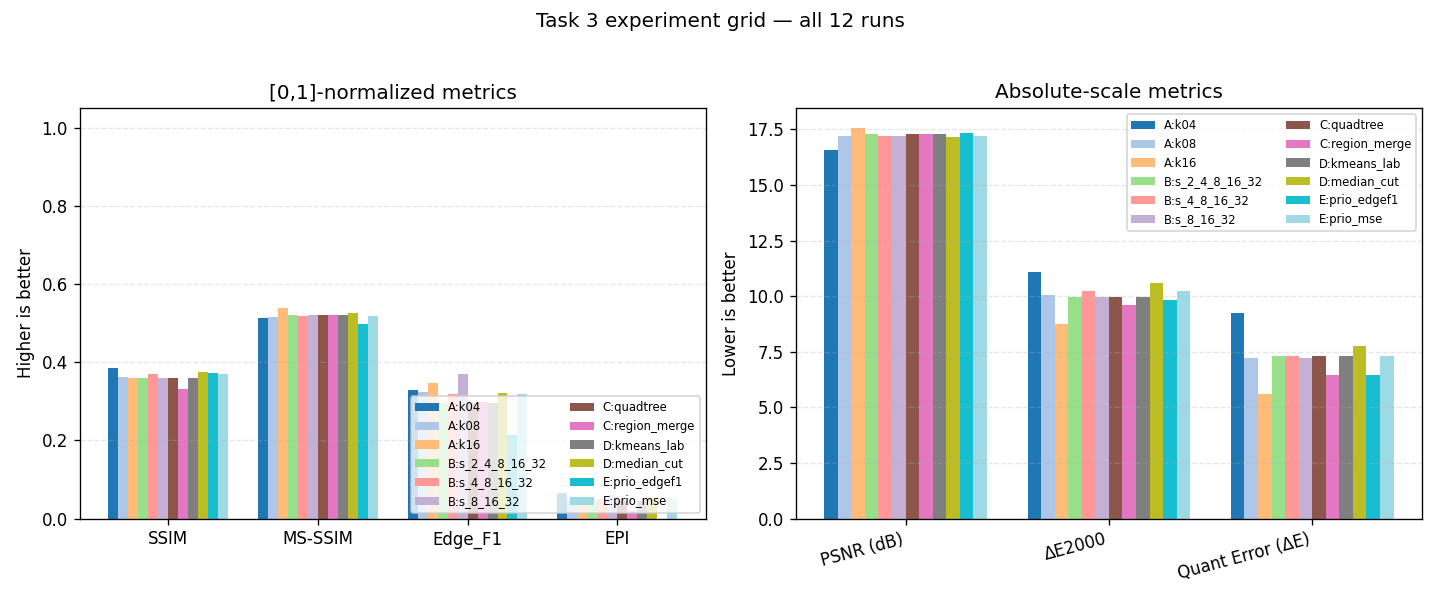
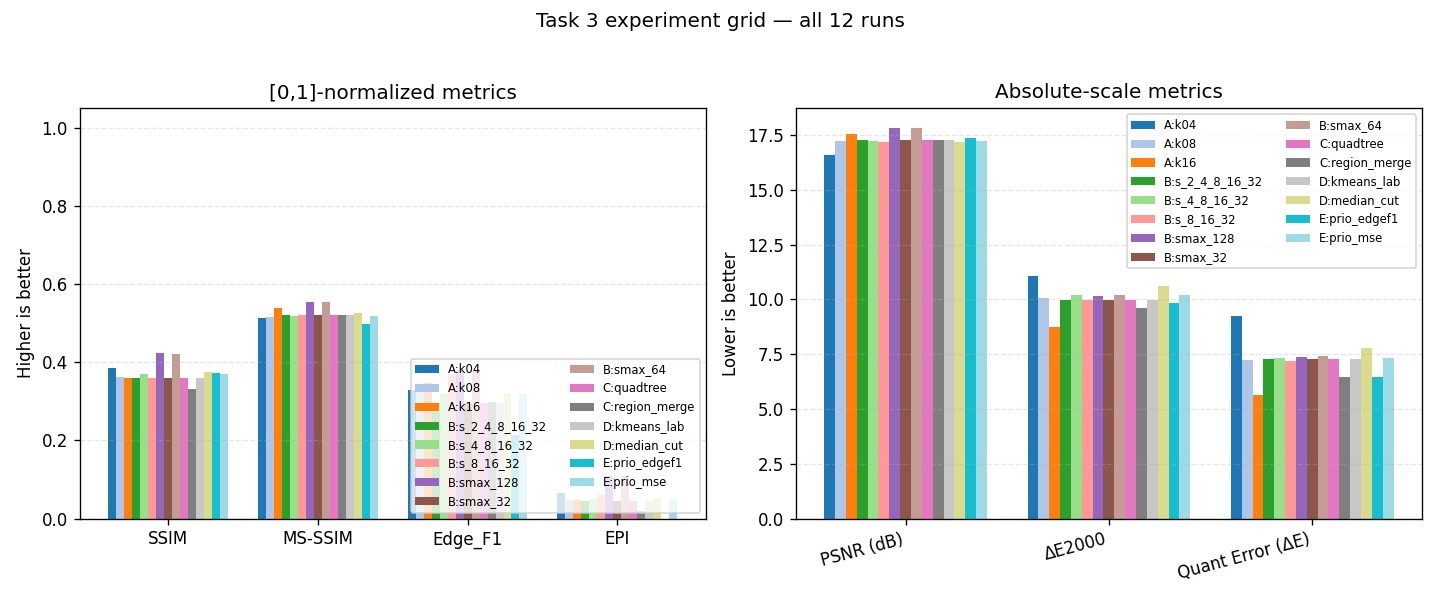
task3: add B2_smax group (S_max sweep 32/64/128); keep original B_sweep as record

diff --git a/code/triangle_brick_task3.py b/code/triangle_brick_task3.py
@@ -16,12 +16,13 @@ Pipeline:
     8. Metrics (reuse Task 2's 9 metrics) + per-size histogram + palette swatch.
     9. JSON dump + PNG outputs.
 
-Five experiment groups (12 runs total):
-    A_ksweep      : K in {4, 8, 16}                      (3)
-    B_sweep       : S_set in {{1,2,4}, {1,2,4,8}, {1,2,4,8,16}} (3)
-    C_algorithm   : partition in {quadtree, region_merge}(2)
-    D_palette     : palette in {kmeans_lab, median_cut} (2)
-    E_priority    : priority in {mse, edgef1}            (2)
+Six experiment groups (15 runs total):
+    A_ksweep      : K in {4, 8, 16}                         (3)
+    B_sweep       : S_min in {2, 4, 8} (kept as record)     (3)
+    B2_smax       : S_max in {32, 64, 128} (improved B)     (3)
+    C_algorithm   : partition in {quadtree, region_merge}   (2)
+    D_palette     : palette in {kmeans_lab, median_cut}     (2)
+    E_priority    : priority in {mse, edgef1}               (2)
 """
 import argparse
 import csv
@@ -576,11 +577,27 @@ def build_experiment_grid(out_root):
         configs.append(c)
 
     # B. S-set sweep (subsets of powers-of-two that include S_max=32 so quadtree
-# finishes in microseconds; S_min=1 is impractical under the 10000 budget.)
+    # finishes in microseconds; S_min=1 is impractical under the 10000 budget.)
+    # NOTE: kept as-is for the record. The B-group "S_min" sweep turned out to
+    # be a near no-op (budget binds at size 4), which motivated B2 below.
     s_sets = [[2, 4, 8, 16, 32], [4, 8, 16, 32], [8, 16, 32]]
     for s_set in s_sets:
         tag = "_".join(str(s) for s in s_set)
         c = Task3Config(name=f"s_{tag}", group="B_sweep", S_set=s_set)
+        configs.append(c)
+
+    # B2. S_MAX sweep — the "improved B" group. The original B varied the
+    # smallest allowed cell (S_min), which had almost no effect because the
+    # budget is spent by the time cells reach size 4. B2 varies the LARGEST
+    # allowed cell instead: starting coarser leaves more budget headroom for
+    # deep splits, so finer cells actually appear (see the marginal-benefit
+    # analysis in docs/progress/Task3.md §5).
+    s_sets = [[1, 2, 4, 8, 16, 32],
+              [1, 2, 4, 8, 16, 32, 64],
+              [1, 2, 4, 8, 16, 32, 64, 128]]
+    for s_set in s_sets:
+        tag = s_set[-1]
+        c = Task3Config(name=f"smax_{tag}", group="B2_smax", S_set=s_set)
         configs.append(c)
 
     # C. Partition algorithm — use S_set=[4,8,16,32] so BOTH algorithms are
@@ -680,9 +697,14 @@ def main_func():
     parser.add_argument("--input", "-i", default=DEFAULT_INPUT)
     parser.add_argument("--out-root", "-o", default=DEFAULT_OUT_ROOT)
     parser.add_argument("--groups", nargs="+",
-                        choices=["A", "B", "C", "D", "E", "all"], default=["all"],
+                        choices=["A", "B", "B2", "C", "D", "E", "all"], default=["all"],
                         help="Which experiment groups to run (default: all).")
     args = parser.parse_args()
+
+    GROUP_KEYS = {
+        "A": "A_ksweep", "B": "B_sweep", "B2": "B2_smax",
+        "C": "C_algorithm", "D": "D_palette", "E": "E_priority",
+    }
 
     img = cv2.imread(args.input)
     if img is None:
@@ -691,7 +713,8 @@ def main_func():
 
     configs = build_experiment_grid(args.out_root)
     if "all" not in args.groups:
-        configs = [c for c in configs if c.group[0] in args.groups]
+        wanted = {GROUP_KEYS[g] for g in args.groups}
+        configs = [c for c in configs if c.group in wanted]
 
     all_metrics = []
     for cfg in configs:

diff --git a/docs/progress/Task3.md b/docs/progress/Task3.md
@@ -93,17 +93,25 @@ multiplied by `target_size` again). After the fix, region_merge reaches
 
 `S_set` must be a power-of-two family (the quadtree halves sizes on split).
 
-## 3. Experiment grid (all 12 runs completed)
+## 3. Experiment grid (15 runs)
 
-| Group | Swept variable | Values |
-|---|---|---|
-| **A_ksweep** | K | 4, 8, 16 |
-| **B_sweep** | S_set (S_min) | [2..32], [4..32], [8..32] |
-| **C_algorithm** | partition | quadtree, region_merge (S_set=[4,8,16,32]) |
-| **D_palette** | palette gen | K-Means-LAB, Median-Cut |
-| **E_priority** | split priority | ΔMSE, Sobel-var |
+| Group | Swept variable | Values | note |
+|---|---|---|---|
+| **A_ksweep** | K | 4, 8, 16 | |
+| **B_sweep** | S_set (S_min) | [2..32], [4..32], [8..32] | original B — near no-op, kept as record |
+| **B2_smax** | S_set (S_max) | [1..32], [1..64], [1..128] | "improved B" — added after the marginal-gain analysis |
+| **C_algorithm** | partition | quadtree, region_merge (S_set=[4,8,16,32]) | |
+| **D_palette** | palette gen | K-Means-LAB, Median-Cut | |
+| **E_priority** | split priority | ΔMSE, Sobel-var | |
 
-All 12 hit exactly **9990 triangles (99.9% budget)**.
+All 15 hit **≈9990 triangles (99.9% budget)**.
+
+**Why B and B2 both exist.** The original B varied the *smallest* allowed cell
+(S_min). Empirically that was a no-op: the budget is exhausted by the time
+cells reach size 4, so S_min ∈ {1,2,4} are indistinguishable. The follow-up
+(see §5 research log) showed that the *largest* allowed cell (S_max) is the
+lever that actually matters, so **B2** was added to vary S_max while the
+original B is retained for the record.
 
 ## 4. Results
 
@@ -117,6 +125,9 @@ Full table: `code/pics/task3/summary/metrics_table.csv`.
 | B:s_2_4_8_16_32 | 0.359 | 0.520 | 9.95 | 0.295 | 0.046 | 7.30 |
 | B:s_4_8_16_32 | 0.370 | 0.518 | 10.22 | 0.320 | 0.050 | 7.33 |
 | B:s_8_16_32 | 0.359 | 0.522 | 9.95 | **0.371** | **0.061** | 7.20 |
+| **B2:smax_32** | 0.359 | 0.520 | **9.95** | 0.295 | 0.046 | 7.30 |
+| **B2:smax_64** | **0.421** | **0.555** | 10.21 | **0.377** | **0.109** | 7.41 |
+| **B2:smax_128** | **0.423** | **0.555** | 10.14 | **0.378** | **0.109** | 7.38 |
 | C:quadtree | 0.359 | 0.520 | 9.95 | 0.295 | 0.046 | 7.30 |
 | C:region_merge | 0.332 | 0.522 | **9.59** | 0.298 | 0.019 | **6.47** |
 | D:kmeans_lab | 0.359 | 0.520 | 9.95 | 0.295 | 0.046 | 7.30 |
@@ -135,6 +146,18 @@ Full table: `code/pics/task3/summary/metrics_table.csv`.
   Edge F1 (0.371) and EPI (0.061). Interpretation: tiny 4-pixel cells add
   many boundaries that don't align with real edges, so allowing them hurts
   edge-metric scores even though they can fit more detail nominally.
+- **B2 – S_max sweep (the important one)**: raising S_max from 32 to 64 is a
+  large, unambiguous win on structure/edge metrics — SSIM 0.359 → **0.421**,
+  MS-SSIM 0.520 → **0.555**, Edge F1 0.295 → **0.377**, EPI 0.046 → **0.109**
+  (more than doubled). The only regression is ΔE2000 (9.95 → 10.21, +2.6%).
+  S_max = 128 adds essentially nothing over 64 (SSIM 0.423, EPI 0.109).
+  **Mechanism**: a coarser starting grid (S_max=64 → 1080 start triangles vs
+  4320 at 32) leaves more of the budget for deep splits, so fine cells appear
+  where they matter. The ΔE regression is the flip side: the algorithm
+  *rationally* leaves large 64×64 flat blocks in smooth regions (their
+  marginal benefit per triangle is 68× that of a size-2 split), which raises
+  per-pixel colour error slightly. Structure-vs-colour trade-off again.
+  **Recommendation: S_max = 64** as the working configuration.
 - **C – quadtree vs region_merge**: quadtree wins SSIM (0.359 vs 0.332) and
   EPI (0.046 vs 0.019); region_merge wins ΔE2000 (9.59 vs 9.95) and Quant
   Error (6.47 vs 7.30). Region_merge produces only large cells (its size
@@ -245,7 +268,25 @@ Results (S_set=[1..64], 9820 splits):
   returns).
 - `benefit_by_size.png` — mean marginal benefit grouped by parent size.
 
-### 5.4 Open issue this exposes
+### 5.4 Step 4 — action taken: add B2 (S_max sweep)
+
+Based on §5.2–5.3, a new experiment group **B2_smax** was added:
+S_set = [1..32] / [1..64] / [1..128], i.e. sweeping the *largest* allowed
+cell. The original **B_sweep** (S_min sweep) is **kept unchanged** as part
+of the experimental record, with a note that it turned out to be a no-op.
+
+B2 results (full pipeline) confirm the prediction:
+
+| S_set (S_max) | start tri | SSIM | MS-SSIM | ΔE2000 | Edge F1 | EPI |
+|---|---|---|---|---|---|---|
+| [1..32] | 4320 | 0.359 | 0.520 | **9.95** | 0.295 | 0.046 |
+| **[1..64]** | 1080 | **0.421** | **0.555** | 10.21 | **0.377** | **0.109** |
+| [1..128] | 280 | **0.423** | **0.555** | 10.14 | **0.378** | **0.109** |
+
+S_max = 64 is the sweet spot; 128 gives no further gain. Working
+configuration recommendation: **S_max = 64**.
+
+### 5.5 Open issue this exposes
 
 The marginal-benefit analysis is in **SSE (pixel error)**, not perceptual
 error. A tiny cell at a sharp corner or thin line can have small SSE yet be
